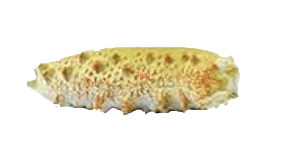
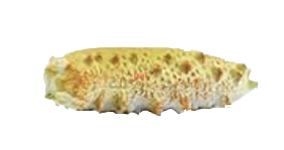
adding things

Changed region(s): [[0.0845, 0.2933, 0.9296, 0.7733]]

diff --git a/projects.html b/projects.html
@@ -14,7 +14,7 @@
 			position: absolute;
 			width:150px;
 			height: 80px;
-			background-image:url(yfish.png);
+			background-image:url(yfish2.png);
 			background-size:contain;
 			background-repeat:no-repeat;
 			margin:50px;
@@ -22,7 +22,7 @@
 		}
 		@keyframes rotationSeaSlug{
 			0%{
-				background-image:url(yfish.png);
+				background-image:url(yfish2.png);
 				left:70px;
 				top:500px;
 
@@ -32,12 +32,12 @@
 				transform: rotate(-10deg);
 				left:300px;
 				top:400px;
-			background-image:url(yfish.png);
+			background-image:url(yfish2.png);
 
 			}
 
 			49%{
-			background-image:url(yfish.png);
+			background-image:url(yfish2.png);
 			top:500px;
 				left:500px;
 
@@ -53,7 +53,9 @@
 			75%{
 				transform: rotate(10deg);
 				top:400px;
-				left:900px;
+				left:900px
+				background-image:url(yfish.png);
+
 			}
 			99%{
 				transform:
@@ -63,7 +65,7 @@
 				background-image:url(yfish.png);
 			}
 			100%{
-				background-image:url(yfish.png);
+				background-image:url(yfish2.png);
 			}
 		} 
 

diff --git a/slotmachine.html b/slotmachine.html
@@ -71,25 +71,25 @@
 			if (random1==random2 && random2==random3) {
 				// alert("GREAT JOB!!!")
 				score=score+3
-			scoreboard.innerText="Your score is "+score
+			scoreboard.innerText="JACKPOT!!! Your score is "+score
 
 			}
 			else if (random1==random2) {
 				// alert("2 out of three, nice job!")
 				score=score+1
-			scoreboard.innerText="Your score is "+score
+			scoreboard.innerText="2/3, not bad!. Your score is "+score
 
 			}
 			else if (random2==random3) {
 				// alert("2 out of three, nice job!")
 				score=score+1
-			scoreboard.innerText="Your score is "+score
+			scoreboard.innerText="2/3, not bad!. Your score is "+score
 
 			}
 			else if (random1==random3) {
 				// alert("2 out of three, nice job!")
 				score=score+1
-			scoreboard.innerText="Your score is "+score
+			scoreboard.innerText="2/3, not bad!. Your score is "+score
 
 			}
 
